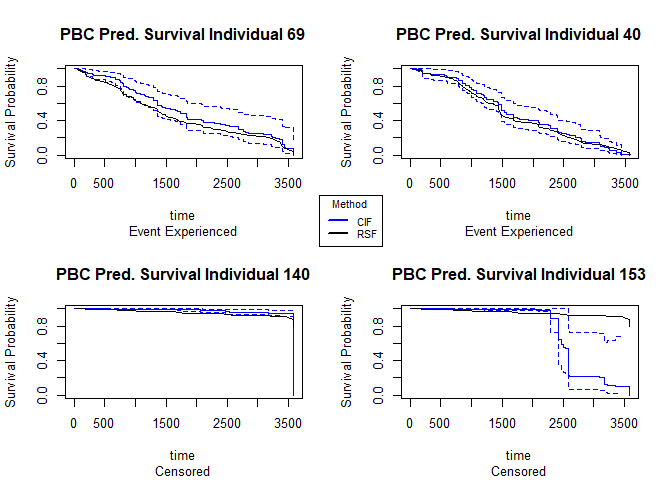
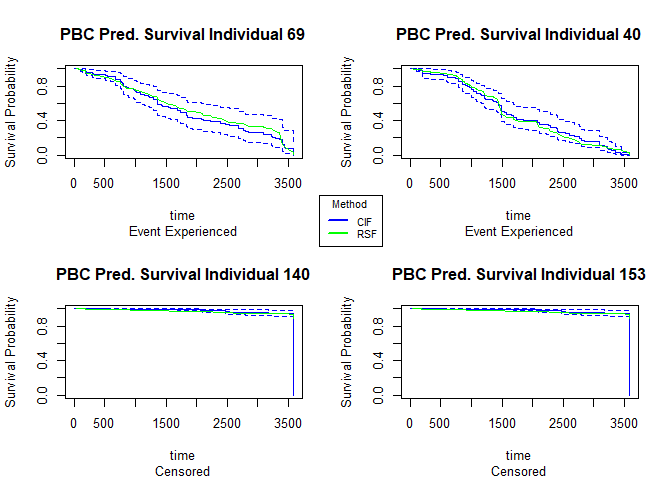
update site

diff --git a/index.md b/index.md
@@ -260,11 +260,9 @@ estimates of the integrated Brier scores. The prediction errors are
 evaluated in each bootstrap sample.
 
 The prediction errors for each of our models will be implemented in the
-`pec` package in R. We set
-<img src="https://render.githubusercontent.com/render/math?math=B "/> =
-50 and implement bootstrap cross-validation to get our estimates for the
-integrated brier scores. The models are assessed on the data samples
-that are NOT in the bootstrap sample (OOB data).
+`pec` package in R. We implement bootstrap cross-validation to get our
+estimates for the integrated brier scores. The models are assessed on
+the data samples that are NOT in the bootstrap sample (OOB data).
 
 ### PBC Data
 
@@ -397,7 +395,7 @@ otherwise, making **death our event of interest**.
 
     # test two-way interactions
     pbc.full <- coxph(Surv(time, status) ~ (.)^2, data =  pbc_use)
-    step(pbc.full, direction = "backward")
+    #step(pbc.full, direction = "backward")
 
 Going through backwards elimination leaves us with a model with age,
 edema status (edema), serum bilirunbin (bili), serum albumin (albumin),
@@ -450,7 +448,7 @@ useful alternatives in this case.
 **Random Survival Forest Implementation**
 
 In hyperparameter tuning, we found that an mtry value of 1 and a
-nodesize of 15 produced the lowest out-of-bag error (0.106).
+nodesize of 5 produced the lowest out-of-bag error (0.107).
 
 ![PBC OOB Error on Parameter
 Values](index_files/figure-markdown_strict/parampbc-1.png)
@@ -461,7 +459,7 @@ Values](index_files/figure-markdown_strict/parampbc-1.png)
       copper + ast + protime + stage + age:edema + age:copper + 
       bili:ast, 
       mtry = 1,
-      nodesize = 15,
+      nodesize = 5,
       data = pbc_use)
 
 **Conditional Inference Forest Implementation**
@@ -498,7 +496,7 @@ of both of the models to what is observed.
 <td>69</td>
 <td>3395</td>
 <td>1</td>
-<td>1413</td>
+<td>1827</td>
 <td>1741</td>
 </tr>
 <tr class="even">
@@ -525,33 +523,49 @@ of both of the models to what is observed.
 </tbody>
 </table>
 
-For the observations that experienced death, the conditional inference
-forest model predicts a median survival time closer to time of death
-than the random survival forest model does. For the censored individuals
-\#140 and \#153, both models predict the same median survival times for
-both observations.
+For the observations that experienced death, the random forest model
+predicts a median survival time closer to time of death than the random
+survival forest model does. For the censored individuals \#140 and
+\#153, both models predict the same median survival times for both
+observations.
 
 <u>Variable Importance</u>
 
-![RSF Variable Importance PBC Data. Bili, edema, and copper are among
-the top 3.](img/rsf.var_imp_pbc.png)
+![*RSF Variable Importance PBC Data. Bili, edema, and copper are among
+the top 3.*](img/rsf.var_imp_pbc.png)
 
-![CIF Variable Importance PBC Data. Bili, age, and stage are among the
-top 3.](img/cif.var_imp_pbc.png)
+![*CIF Variable Importance PBC Data. Bili, age, and stage are among the
+top 3.*](img/cif.var_imp_pbc.png)
 
 We can compare the variable importance rankings between the random
-survival forest and the conditional inference forest.
+survival forest and the conditional inference forest. Most notably, the
+scale of variable importance is larger in the conditional inference
+forest case than it is in the random survival forest. This is because
+even though bili is the most important predictor in both models, it is
+that much more important in the conditional inference forest.
+Additionally, we see that while edema and copper are 2nd and 3rd most
+important in the random survival forest, they are relatively not that
+important in the conditional inference forest. Conversely, while age and
+stage are important in the conditional inference forest, they are not as
+important in the random survival forest. One thing to note is that the
+variable edema can be viewed as a predictor with many split-points
+(greater than 2), taking on three unique values: 0, 0.5, and 1. We may
+be seeing the inherent bias problem coming into play here in the fact
+that the random survival forest favors that variable in terms of its
+importance.
 
 <u>Prediction Error Curves</u>
 
 We can compare the prediction error curves for the random survival
 forest and the conditional inference forest models.
 
-Using bootstrap cross-validation, we see an integrated brier score of
-0.07 for the random survival forest and 0.073 for the conditional
-inference forest. Recall that a lower score means better performance.
-While the random survival forest performs better here, we see that the
-difference is marginal and perhaps negligible.
+Using bootstrap cross-validation (
+<img src="https://render.githubusercontent.com/render/math?math=B"/> =
+50), we see an integrated brier score of 0.07 for the random survival
+forest and 0.073 for the conditional inference forest. Recall that a
+lower score means better performance. While the random survival forest
+performs better here, we see that the difference is marginal and perhaps
+negligible.
 
 ### Employee Turnover Data
 
@@ -795,6 +809,17 @@ traffic are among the top 3.](img/cif.var_imp_turn.png)
 
 We can compare the prediction error curves of the two models. Recall
 that these estimates are based on the average brier scores computed at
-different time points.
+different time points. We reduce
+<img src="https://render.githubusercontent.com/render/math?math=B"/> = 5
+for computation and run-time purposes.
+
+    ## 
+    ## Integrated Brier score (crps):
+    ## 
+    ##         AppErr BootCvErr
+    ## rsfc     0.079     0.155
+    ## cforest  0.061     0.121
+
+![](index_files/figure-markdown_strict/unnamed-chunk-40-1.png)
 
 {% include lib/mathjax.html %}
